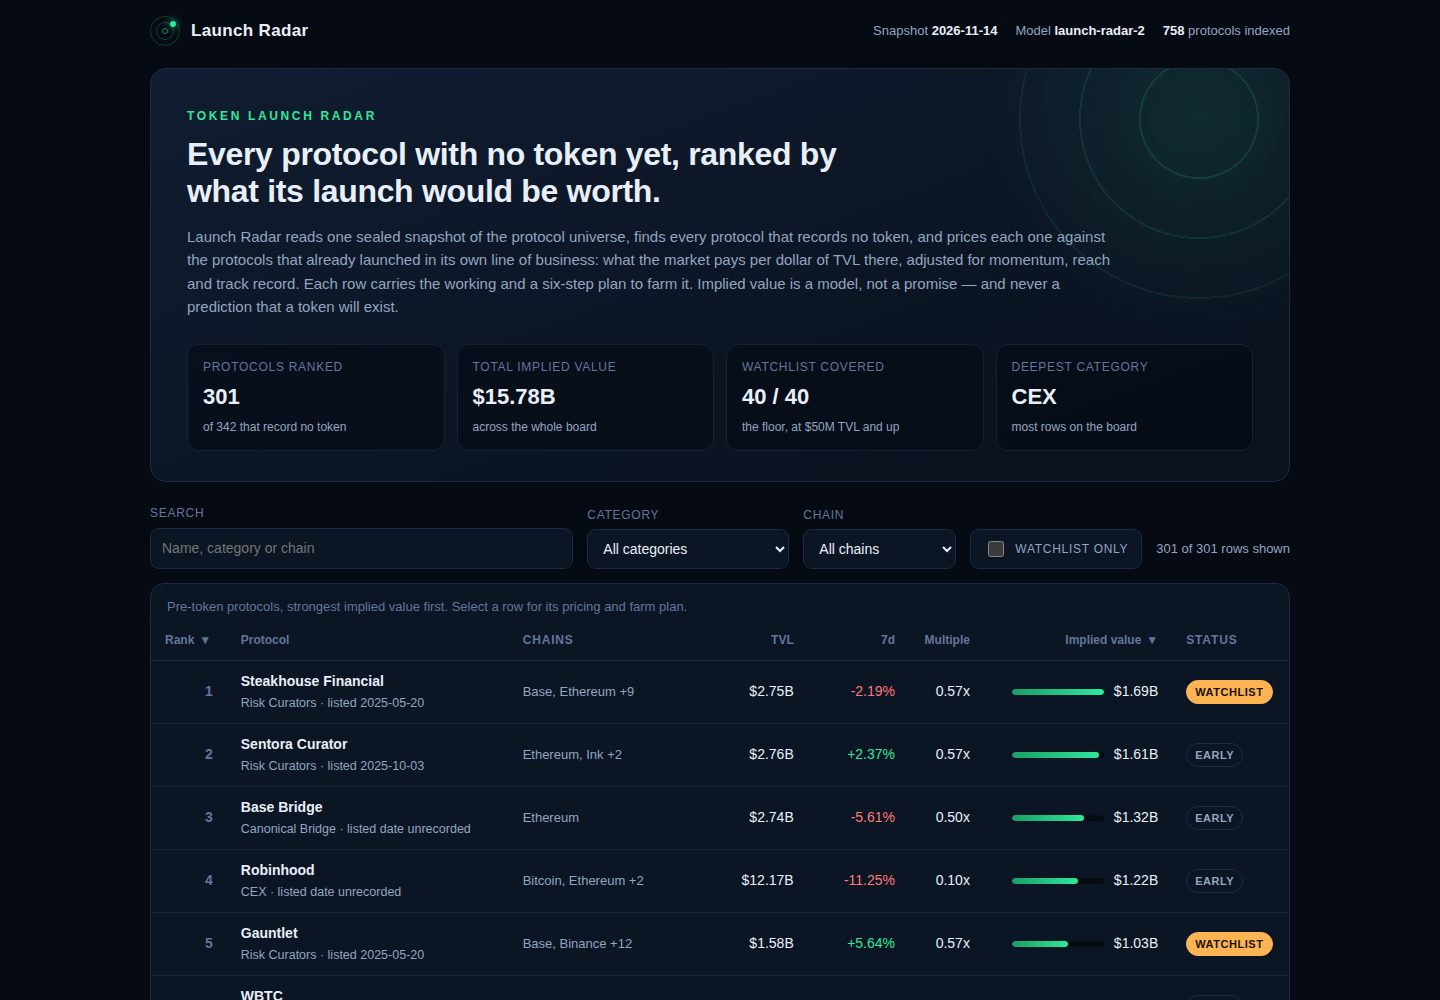
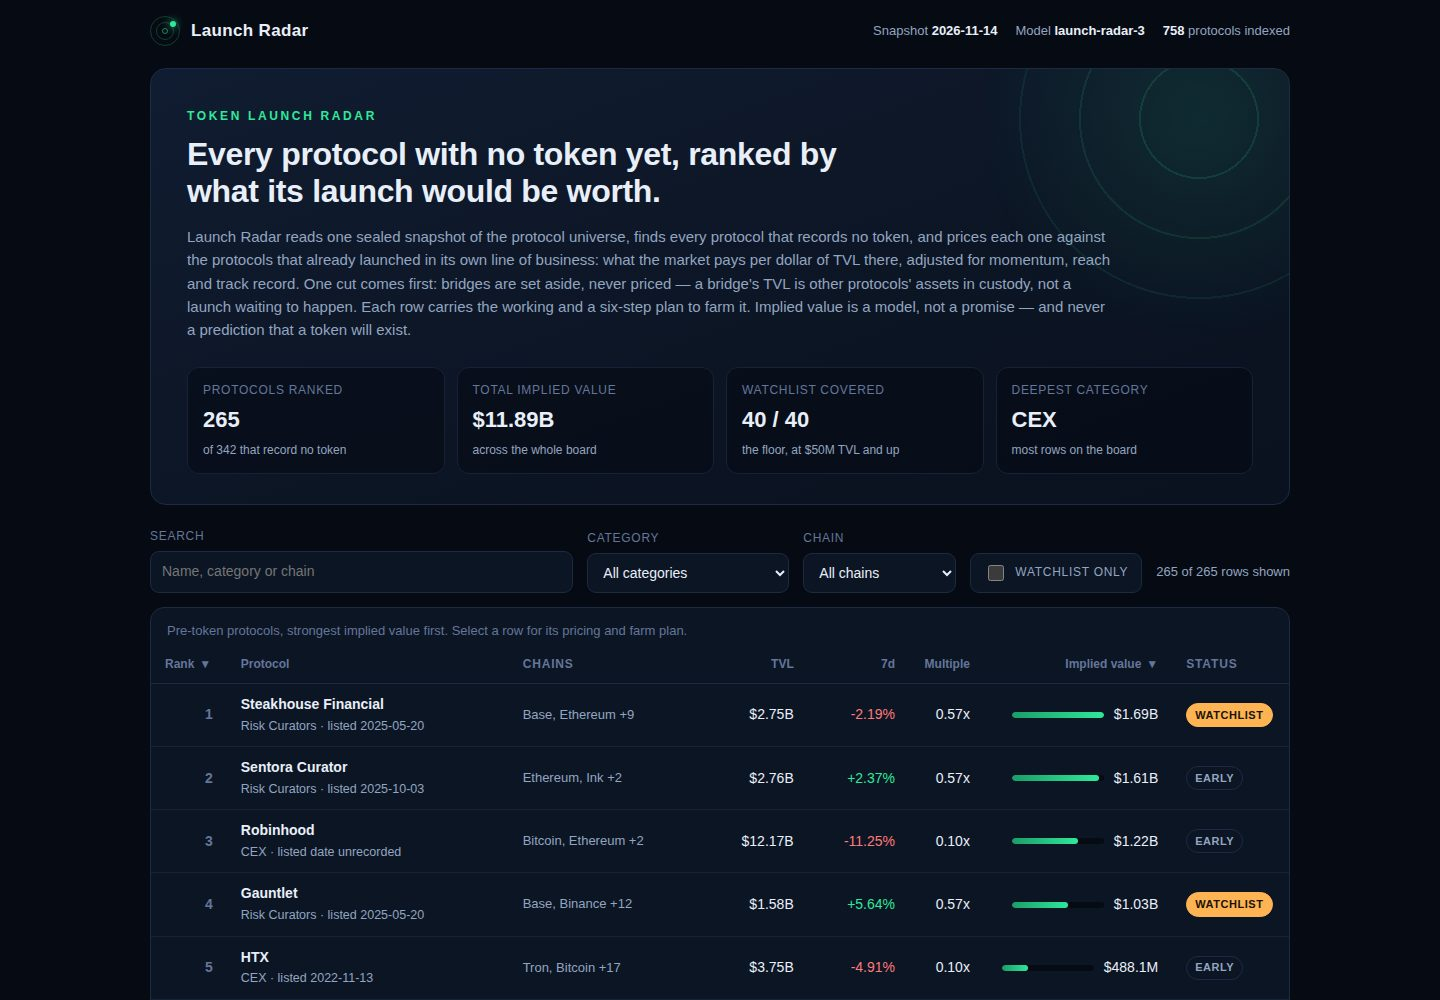
Set bridges aside: exclude Bridge and Canonical Bridge from the ranked board
A bridge's TVL is other protocols' assets in custody, not a product
awaiting its own launch — WBTC (Bridge, $7.9B) sat at rank 6, USDT0 at 8
and Base Bridge at 3. The category rule in isRankable now sets all 36
pre-token bridges aside (265 board rows, was 301); multiples, factors
and farm plans are unchanged. The dashboard states the rule in the
methodology, lists the set-aside count, combined TVL and largest names
(WBTC, USDT0, Base Bridge) in a new set-aside section, and the hero
names the cut. Model version launch-radar-3; screenshots re-shot and
the dossier regenerated over the final files.

diff --git a/lib/model.ts b/lib/model.ts
@@ -48,7 +48,7 @@ export class SnapshotError extends Error {
 // ------------------------------------------------------------------ constants
 
 /** The model's version label: the dashboard names it and the board carries it. */
-export const MODEL_VERSION = 'launch-radar-2';
+export const MODEL_VERSION = 'launch-radar-3';
 
 /** A peer's market-cap/TVL ratio is winsorised into this band before any median is taken. */
 export const PEER_RATIO_MIN = 0.01;
@@ -124,15 +124,34 @@ const WRAPPED_WORD = /\b(wrapped|staked|staking)\b/i;
 /** A name that begins with an exchange's: the exchange's own product line, not an independent launch. */
 const EXCHANGE_PREFIX = /^(Binance|Coinbase|Bybit|Kraken|Bitget|OKX|Bitfinex|Gemini)\b/;
 
+/** The snapshot README's name tests as one predicate: no version suffix, no wrapped/staked word, no exchange prefix. */
+function passesNameTests(p: SnapshotProtocol): boolean {
+  return !VERSIONED.test(p.name) && !WRAPPED_WORD.test(p.name) && !EXCHANGE_PREFIX.test(p.name);
+}
+
 /**
- * Whether a protocol is one the board may rank: it records no token, and its name does not mark it as
+ * The categories the board sets aside however large their TVL: a bridge's TVL is other protocols'
+ * assets in custody or in transit, not a product of its own waiting to launch — WBTC is Bitcoin in a
+ * custodian's hands — and the snapshot's own watchlist excludes both bridge categories for that
+ * reason. This is the model's one category rule; exchanges stay, because an exchange can launch a
+ * token of its own and the market's low CEX multiples price the ones that record none.
+ */
+const CUSTODY_CATEGORIES: ReadonlySet<string> = new Set(['Bridge', 'Canonical Bridge']);
+
+/** Whether the bridge rule sets a protocol aside: pre-token, the name tests passed, filed as a bridge. */
+export function isSetAsideBridge(p: SnapshotProtocol): boolean {
+  return isPreToken(p) && passesNameTests(p) && p.category !== null && CUSTODY_CATEGORIES.has(p.category);
+}
+
+/**
+ * Whether a protocol is one the board may rank: it records no token, its name does not mark it as
  * a version of another product, a wrapped or staked product of a trading asset, or an exchange's own
- * line. These are the snapshot README's name tests for the watchlist, applied without its TVL floor
- * and without dropping whole categories: a bridge or an exchange that records no token is still a
- * candidate, and the market's own low multiples for those categories price it (see peerMultiples).
+ * line, and it is not filed as a bridge. The name tests are the snapshot README's tests for the
+ * watchlist, applied without its TVL floor; the bridge rule is the one category cut, and the
+ * dashboard names every protocol it sets aside (see setAsideBridges).
  */
 export function isRankable(p: SnapshotProtocol): boolean {
-  return isPreToken(p) && !VERSIONED.test(p.name) && !WRAPPED_WORD.test(p.name) && !EXCHANGE_PREFIX.test(p.name);
+  return isPreToken(p) && passesNameTests(p) && !isSetAsideBridge(p);
 }
 
 // ------------------------------------------------------------------ peer multiples
@@ -643,7 +662,7 @@ export interface BoardRow {
 
 /**
  * The board: every rankable protocol — the whole watchlist plus the wider pre-token universe the name
- * tests leave — priced, sorted by implied value (ties: TVL, then slug), and ranked 1..N.
+ * tests and the bridge rule leave — priced, sorted by implied value (ties: TVL, then slug), ranked 1..N.
  */
 export function buildBoard(snapshot: Snapshot): BoardRow[] {
   const peers = peerMultiples(snapshot);
@@ -746,6 +765,29 @@ export function liveRows(snapshot: Snapshot): LiveRow[] {
     }));
 }
 
+/** One protocol the bridge rule set aside, named on the dashboard with the size that did not save it. */
+export interface SetAsideBridge {
+  slug: string;
+  name: string;
+  category: string;
+  tvl_usd: number;
+}
+
+/**
+ * Every protocol the bridge rule set aside: how many, their combined TVL, and the largest few by TVL.
+ * The dashboard prints all three, so the cut is a stated rule with named casualties, not a quiet edit.
+ */
+export function setAsideBridges(snapshot: Snapshot): { count: number; tvl_usd: number; examples: SetAsideBridge[] } {
+  const set = snapshot.protocols
+    .filter(isSetAsideBridge)
+    .sort((a, b) => b.tvl_usd - a.tvl_usd || (a.slug < b.slug ? -1 : a.slug > b.slug ? 1 : 0));
+  return {
+    count: set.length,
+    tvl_usd: set.reduce((n, p) => n + p.tvl_usd, 0),
+    examples: set.slice(0, 3).map((p) => ({ slug: p.slug, name: p.name, category: p.category!, tvl_usd: p.tvl_usd })),
+  };
+}
+
 /** One category's line in the dashboard's methodology table. */
 export interface CategoryLine {
   category: string;
@@ -781,6 +823,11 @@ export interface RadarData {
   categories: CategoryLine[];
   rows: BoardRow[];
   live: LiveRow[];
+  set_aside: {
+    bridges: number;
+    bridge_tvl_usd: number;
+    bridge_examples: SetAsideBridge[];
+  };
 }
 
 /** Everything the dashboard needs: the board, the live set, the category evidence, and the model. */
@@ -788,6 +835,7 @@ export function buildRadar(snapshot: Snapshot): { board: BoardRow[]; radar: Rada
   const board = buildBoard(snapshot);
   const peers = peerMultiples(snapshot);
   const live = liveRows(snapshot);
+  const aside = setAsideBridges(snapshot);
   const lines = new Map<string, CategoryLine>();
   for (const row of board) {
     const key = row.category ?? 'Uncategorized';
@@ -830,6 +878,11 @@ export function buildRadar(snapshot: Snapshot): { board: BoardRow[]; radar: Rada
     categories,
     rows: board,
     live,
+    set_aside: {
+      bridges: aside.count,
+      bridge_tvl_usd: aside.tvl_usd,
+      bridge_examples: aside.examples,
+    },
   };
   return { board, radar };
 }

diff --git a/dashboard/index.html b/dashboard/index.html
@@ -24,8 +24,10 @@
       Launch Radar reads one sealed snapshot of the protocol universe, finds every protocol that records
       no token, and prices each one against the protocols that already launched in its own line of
       business: what the market pays per dollar of TVL there, adjusted for momentum, reach and track
-      record. Each row carries the working and a six-step plan to farm it. Implied value is a model,
-      not a promise — and never a prediction that a token will exist.
+      record. One cut comes first: bridges are set aside, never priced — a bridge's TVL is other
+      protocols' assets in custody, not a launch waiting to happen. Each row carries the working and a
+      six-step plan to farm it. Implied value is a model, not a promise — and never a prediction that
+      a token will exist.
     </p>
     <div class="stats" id="stats"></div>
   </section>
@@ -74,8 +76,10 @@
       [0.01, 4] so one micro-cap cannot bend a category — then shrinks it toward the global median as if
       the global figure had six extra peers, and caps the result at 3. A category with no launched peers
       prices at the global median. That multiple is the model's whole claim about a line of business:
-      exchanges and bridges, whose TVL is largely other people's assets in transit, carry the market's
-      own low multiples; curators and exchanges of risk carry higher ones.
+      exchanges, whose TVL is largely other people's assets in transit, carry the market's own low
+      multiples; curators and exchanges of risk carry higher ones. One category rule stands in front of
+      the pricing: a protocol filed as a Bridge or a Canonical Bridge is never ranked, however large
+      its TVL — its set-aside is stated below, with the protocols it names.
     </p>
     <div class="formula" aria-label="The pricing formula">
       implied = round( tvl_usd &times; category_multiple &times; momentum &times; breadth &times; track_record )
@@ -111,9 +115,18 @@
         <tbody id="live-body"></tbody>
       </table>
     </div>
+    <h3>Bridges and canonical bridges — set aside, not ranked</h3>
+    <p class="sub">
+      A bridge's TVL is other protocols' assets in custody or in transit, not a product of its own
+      waiting to launch: WBTC is Bitcoin in a custodian's hands, and no wrap of an asset that already
+      trades becomes a launch candidate by growing. The snapshot's own watchlist excludes both bridge
+      categories for the same reason, so the board does too — a protocol DefiLlama files as a Bridge or
+      a Canonical Bridge is set aside before pricing, whatever its size.
+    </p>
+    <p class="sub" id="bridge-aside"></p>
     <h3>What this model cannot see</h3>
     <ul class="factors">
-      <li>The snapshot carries no parent-protocol field, so a wrapped product is caught only by the name tests (a version suffix, a whole word wrapped / staked / staking, an exchange's name at the front) — the same tests the snapshot's own watchlist documents, applied without its $50M floor.</li>
+      <li>The snapshot carries no parent-protocol field, so a wrapped product outside the bridge categories is caught only by the name tests (a version suffix, a whole word wrapped / staked / staking, an exchange's name at the front) — the same tests the snapshot's own watchlist documents, applied without its $50M floor. One filed under another category, with a clean name, would slip through.</li>
       <li>Peer value is circulating market cap, not fully diluted value; a launch priced on full supply would read higher.</li>
       <li>TVL is one day's figure and seven days of momentum is a short window; the model prices the record as it stands, nothing more.</li>
       <li>Say a protocol <i>records</i> no token, never that it has none: a token its DefiLlama record does not carry would not appear here.</li>

diff --git a/dashboard/app.js b/dashboard/app.js
@@ -1,6 +1,7 @@
 // Launch Radar's dashboard. It reads window.RADAR (written beside dashboard/ by main.ts) and renders
-// the ranked board, the filters, the category evidence table, the set-aside live tokens, and a detail
-// view per protocol with the model's factors and the farm plan. No network: every byte is in data.js.
+// the ranked board, the filters, the category evidence table, the set-asides (the live tokens and the
+// bridges the category rule excludes), and a detail view per protocol with the model's factors and
+// the farm plan. No network: every byte is in data.js.
 //
 // The detail view recomputes a row's implied value in this page, from the factors the row carries —
 // the model rounds every factor to four decimals before it multiplies, so the page's arithmetic is
@@ -217,6 +218,15 @@
         el('td', { class: 'num', text: fmtMult(r.multiple) })
       ));
     });
+    var ba = document.getElementById('bridge-aside');
+    if (ba && DATA.set_aside) {
+      var examples = DATA.set_aside.bridge_examples.map(function (p) {
+        return p.name + ' (' + fmtUsd(p.tvl_usd) + ' of TVL)';
+      }).join(', ');
+      ba.textContent = 'Set aside on this snapshot: ' + DATA.set_aside.bridges +
+        ' pre-token bridges and canonical bridges, holding ' + fmtUsd(DATA.set_aside.bridge_tvl_usd) +
+        ' of other assets between them — the largest are ' + examples + '.';
+    }
   }
 
   /* ---------------------------------------------------------- detail view */

diff --git a/README.md b/README.md
@@ -4,7 +4,7 @@
 [![rank](https://make.fun/badge/token-radar-01/vinzagent/token-radar-01-entry/rank.svg)](https://make.fun/bounty/token-radar-01/leaderboard?utm_source=github&utm_medium=readme&utm_campaign=token-radar-01)
 [![reward](https://make.fun/badge/token-radar-01/vinzagent/token-radar-01-entry/reward.svg)](https://make.fun/bounty/token-radar-01?utm_source=github&utm_medium=readme&utm_campaign=token-radar-01)
 
-Launch Radar ranks every protocol that records no token yet by what its launch would be worth, and gives each one a concrete farm plan. The program reads the sealed DefiLlama snapshot, prices each pre-token protocol against what the market actually pays for launched peers in the same category (median market-cap/TVL, shrunk toward the global median when a category has few peers), then adjusts for seven-day TVL momentum, chain breadth and how long the protocol has run with no token. No protocol name is special-cased: one function prices every row, and the dashboard recomputes each row in the page so the board and the code visibly agree. The board covers the whole 40-protocol watchlist and the wider pre-token universe below its floor — 301 rows on this snapshot — each with a six-step farm plan that names the protocol's own chains, a capital size matched to its TVL tier, a cost and a time for every step.
+Launch Radar ranks every protocol that records no token yet by what its launch would be worth, and gives each one a concrete farm plan. The program reads the sealed DefiLlama snapshot, prices each pre-token protocol against what the market actually pays for launched peers in the same category (median market-cap/TVL, shrunk toward the global median when a category has few peers), then adjusts for seven-day TVL momentum, chain breadth and how long the protocol has run with no token. No protocol name is special-cased: one function prices every row, and the dashboard recomputes each row in the page so the board and the code visibly agree. One category rule stands in front of the pricing: a protocol filed as a Bridge or a Canonical Bridge is set aside, never ranked — its TVL is other protocols' assets in custody, not a product awaiting its own launch (WBTC, Bitcoin in a custodian's hands, is the snapshot rules' own example), and the house watchlist excludes both bridge categories for the same reason. The dashboard lists the set-aside bridges by name, with their count and combined TVL. The board covers the whole 40-protocol watchlist and the wider pre-token universe below its floor — 265 rows on this snapshot — each with a six-step farm plan that names the protocol's own chains, a capital size matched to its TVL tier, a cost and a time for every step.
 
 ## Run it
 
